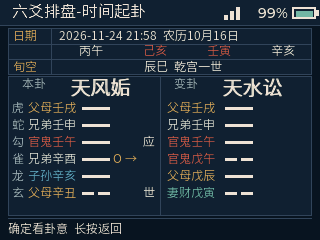
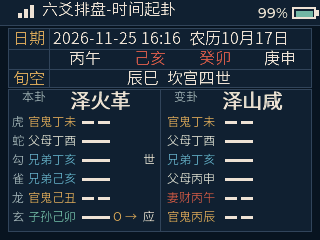
fix(liuyao): center the 旬空 value in the chart header

diff --git a/tests/test_liuyao_ui.py b/tests/test_liuyao_ui.py
@@ -58,7 +58,8 @@ assert 'label(box, value, &buddy_font_16, UI_TEXT, 44, y, 252, 20);' in app
 assert 'label(box, kind, &buddy_font_16, UI_WARNING, 8, 2, 132, 22, LV_TEXT_ALIGN_CENTER);' in app
 assert 'ui_pixel_label(box, meaning, &buddy_font_16, UI_TEXT)' in app
 assert 'lv_obj_set_size(body, 140, 112);' in app
-assert 'meta_row_text(meta, 40, "旬空", text);' in app
+assert 'label(meta, "旬空", &buddy_font_16, UI_WARNING, 4, 40, 36, 20);' in app
+assert 'label(meta, text, &buddy_font_16, UI_TEXT, 44, 40, 252, 20, LV_TEXT_ALIGN_CENTER);' in app
 assert 'home_profile_get(&profile)' in app
 assert 'BAZI_TIME_STANDARD' in app
 assert '"六爻排盘-%s"' in app

diff --git a/main/apps/liuyao/app_liuyao.cc b/main/apps/liuyao/app_liuyao.cc
@@ -875,7 +875,8 @@ void build_chart(void) {
                   bazi_branch_text(s_chart.empty_branch[1]),
                   liuyao_palace_name(s_chart.palace),
                   liuyao_palace_state_text(s_chart.palace_index));
-    meta_row_text(meta, 40, "旬空", text);
+    label(meta, "旬空", &buddy_font_16, UI_WARNING, 4, 40, 36, 20);
+    label(meta, text, &buddy_font_16, UI_TEXT, 44, 40, 252, 20, LV_TEXT_ALIGN_CENTER);
 
     // The chart uses the full height; the old bottom hint row is gone.
     lv_obj_t *sheet = panel(s_screen, 8, 89, 304, 143);

diff --git a/docs/CURRENT.md b/docs/CURRENT.md
@@ -29,9 +29,9 @@
 - 版本：`1.0.0`
 - 当前源码使用标准语义化版本号，作为这套定制固件的首个稳定基线。
 - 本地应用镜像：3,419,504 字节
[2 lines of base64/hex data omitted]
 - 本地完整镜像：3,485,040 字节
[2 lines of base64/hex data omitted]
 - 上述为本地非公开发布构建；发布前仍需按对应配置重新构建并复核。
 
 ## 验收状态
@@ -49,7 +49,7 @@
 - 真机通过万年历两行大字月历、每格日干支、选中农历摘要、日期详情、交节日、年月选择、五周/六周月份窗口和返回今天测试。
 - 真机通过日期详情十二时辰 `6×2` 布局、时干在上/时支在下、无时辰名称标签、
   时干与时支独立五行着色、当前时辰高亮，以及底部按键提示无重叠检查。
-- 真机重新烧录应用分区后通过六爻串口按键与截图检查：竖屏起卦方式页、手动摇卦空盘、720ms 钱币摇动与逐爻落定、有爻时长按确定重摇、空盘时长按确定返回、六爻完成页、横屏双卦主盘（含两个动爻）、卦意页（本卦/变卦标签与解读正文 16px）、时间起卦盘面、横竖屏恢复均正常；截图中的钱面、爻值、`X →`/`O →`、世应与双卦名可读。按键由串口模拟，实体按键手感与摇动主观观感仍需人工确认。
+- 真机重新烧录应用分区后通过六爻串口按键与截图检查：竖屏起卦方式页、手动摇卦空盘、720ms 钱币摇动与逐爻落定、有爻时长按确定重摇、空盘时长按确定返回、六爻完成页、横屏双卦主盘（含两个动爻、旬空值居中）、卦意页（本卦/变卦标签与解读正文 16px）、时间起卦盘面、横竖屏恢复均正常；截图中的钱面、爻值、`X →`/`O →`、世应与双卦名可读。按键由串口模拟，实体按键手感与摇动主观观感仍需人工确认。
 - 真机随机摇卦尚未复现无动爻盘面；该路径由核心主机测试和 UI 静态检查覆盖，盘面右侧显示“无动爻”。
 - 六爻真机进入时空闲堆约 138 KB、最大连续块约 68 KB；进入手动摇卦或横屏盘面后约 121–123 KB，返回起卦方式后回升到约 138 KB。截图抓取期间会临时占用约 15 KB 缓冲。
 - 手动摇卦的核心、UI、字库、构建、合并镜像、分区、固件布局和 SRAM 检查均通过；完整主机回归仍需在具备 host C/C++ 编译器的环境补跑。

diff --git a/docs/liuyao-app-design.md b/docs/liuyao-app-design.md
@@ -220,7 +220,7 @@
 
 - 顶栏左侧合并显示“六爻排盘-时间起卦”或“六爻排盘-手动摇卦”。
 - 月建、日辰、时支。
-- 旬空，使用边框标签而不是把“空”染成危险色。
+- 旬空，使用边框标签而不是把“空”染成危险色；旬空值在数值列居中。
 - 本卦名、之卦名。
 - 宫、游魂/归魂、世应位置。
 
